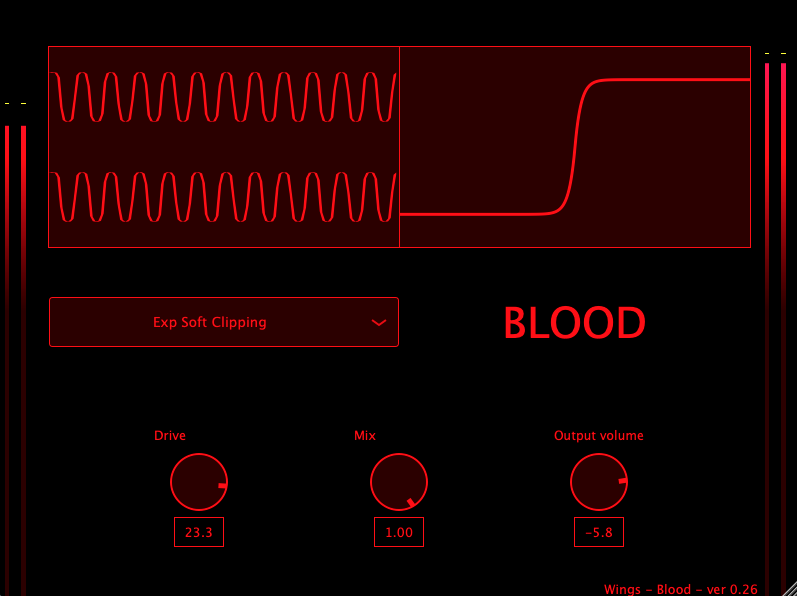
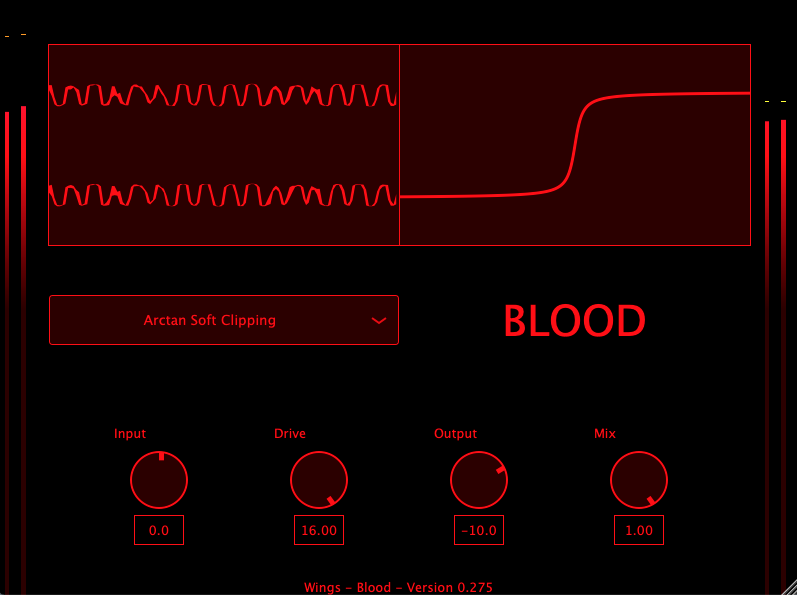
Upgrade to 0.275
1. add input knob, change the location of mix and output knob. Now the output knob is before the mix knob so that it doesn't affect mix knob when mix = 0.
2. fit JUCE v5.7.4
3. seperate distortion module into Distortion.cpp and Distortion.h
4. Change "mode" into interger

Former-commit-id: 422c23a339f6065666e80291f425d574cca9fbd6

diff --git a/Source/PluginEditor.cpp b/Source/PluginEditor.cpp
@@ -10,7 +10,7 @@
 
 #include "PluginProcessor.h"
 #include "PluginEditor.h"
-#define VERSION "0.271"
+#define VERSION "0.275"
 //==============================================================================
 BloodAudioProcessorEditor::BloodAudioProcessorEditor(BloodAudioProcessor &p)
     : AudioProcessorEditor(&p), processor(p)
@@ -74,6 +74,17 @@ BloodAudioProcessorEditor::BloodAudioProcessorEditor(BloodAudioProcessor &p)
     driveLabel.setColour(Label::textColourId, mainColour);
     driveLabel.attachToComponent(&driveKnob, false);
 
+    //output knob
+    addAndMakeVisible(outputKnob);
+    outputKnob.setSliderStyle(Slider::RotaryHorizontalVerticalDrag);
+    outputKnob.setTextBoxStyle(Slider::TextBoxBelow, false, 50, 30);
+    outputKnob.setLookAndFeel(&otherLookAndFeel);
+
+    addAndMakeVisible(outputLabel);
+    outputLabel.setText("Output", dontSendNotification);
+    outputLabel.setColour(Label::textColourId, mainColour);
+    outputLabel.attachToComponent(&outputKnob, false);
+
     //mix knob
     addAndMakeVisible(mixKnob);
     mixKnob.setSliderStyle(Slider::RotaryHorizontalVerticalDrag);
@@ -84,22 +95,12 @@ BloodAudioProcessorEditor::BloodAudioProcessorEditor(BloodAudioProcessor &p)
     mixLabel.setText("Mix", dontSendNotification);
     mixLabel.setColour(Label::textColourId, mainColour);
     mixLabel.attachToComponent(&mixKnob, false);
-
-    //volume knob
-    addAndMakeVisible(gainKnob);
-    gainKnob.setSliderStyle(Slider::RotaryHorizontalVerticalDrag);
-    gainKnob.setTextBoxStyle(Slider::TextBoxBelow, false, 50, 30);
-    gainKnob.setLookAndFeel(&otherLookAndFeel);
-
-    addAndMakeVisible(gainLabel);
-    gainLabel.setText("Output", dontSendNotification);
-    gainLabel.setColour(Label::textColourId, mainColour);
-    gainLabel.attachToComponent(&gainKnob, false);
-
+    
+    //Attachment
     driveAttachment = std::make_unique<AudioProcessorValueTreeState::SliderAttachment>(processor.treeState, "drive", driveKnob); // (deleted drive)
     inputAttachment = std::make_unique<AudioProcessorValueTreeState::SliderAttachment>(processor.treeState, "inputGain", inputKnob);
+    outputAttachment = std::make_unique<AudioProcessorValueTreeState::SliderAttachment>(processor.treeState, "outputGain", outputKnob);
     mixAttachment = std::make_unique<AudioProcessorValueTreeState::SliderAttachment>(processor.treeState, "mix", mixKnob);
-    gainAttachment = std::make_unique<AudioProcessorValueTreeState::SliderAttachment>(processor.treeState, "outputGain", gainKnob);
 
     //visualiser
     //addAndMakeVisible(visualiser);
@@ -163,14 +164,14 @@ void BloodAudioProcessorEditor::paint(Graphics &g)
 
     float functionValue;
     float mixValue;
-    float mode = *processor.treeState.getRawParameterValue("mode");
+    int mode = *processor.treeState.getRawParameterValue("mode");
     float inputGain = *processor.treeState.getRawParameterValue("inputGain");
-    float mix = *processor.treeState.getRawParameterValue("mix");
     float drive = *processor.treeState.getRawParameterValue("drive"); // (deleted drive)
-
+    float mix = *processor.treeState.getRawParameterValue("mix");
+    
     distortionProcessor.controls.mode = mode;
-    distortionProcessor.controls.mix = mix;
     distortionProcessor.controls.drive = drive;
+    distortionProcessor.controls.mix = mix;
 
     auto frame = getLocalBounds(); // adjust here, if you want to paint in a special location
     frame.setBounds(getWidth() / 2, 50 - 1, getWidth() / 2 - 50 + 2, (getHeight() / 3 + 2));
@@ -235,8 +236,8 @@ void BloodAudioProcessorEditor::resized()
     // subcomponents in your editor..
     inputKnob.setBounds((getWidth() / 5) * 1 - 50, getHeight() - 150, 100, 100);
     driveKnob.setBounds((getWidth() / 5) * 2 - 50, getHeight() - 150, 100, 100); // (deleted drive)
-    mixKnob.setBounds((getWidth() / 5) * 3 - 50, getHeight() - 150, 100, 100);
-    gainKnob.setBounds((getWidth() / 5) * 4 - 50, getHeight() - 150, 100, 100);
+    outputKnob.setBounds((getWidth() / 5) * 3 - 50, getHeight() - 150, 100, 100);
+    mixKnob.setBounds((getWidth() / 5) * 4 - 50, getHeight() - 150, 100, 100);
 
     // visualiser
     processor.visualiser.setBounds(50, 50, getWidth() / 2 - 50, (getHeight() / 3));

diff --git a/Source/PluginProcessor.cpp b/Source/PluginProcessor.cpp
@@ -23,12 +23,12 @@ BloodAudioProcessor::BloodAudioProcessor()
 #endif
                          ),treeState(*this, nullptr, "PARAMETERS",
                 {
-
+                    std::make_unique<AudioParameterFloat>("mode", "Mode", NormalisableRange<float>(1, 6, 1), 1),
                     std::make_unique<AudioParameterFloat>("inputGain", "InputGain", NormalisableRange<float>(-36.0f, 36.0f, 0.1f), 0.0f),
                     std::make_unique<AudioParameterFloat>("drive", "Drive", NormalisableRange<float>(1.0f, 16.0f, 0.01f), 1.0f), // (deleted drive)
-                    std::make_unique<AudioParameterFloat>("mix", "Mix", NormalisableRange<float>(0.0f, 1.0f, 0.01f), 1.0f),
                     std::make_unique<AudioParameterFloat>("outputGain", "OutputGain", NormalisableRange<float>(-48.0f, 6.0f, 0.1f), 0.0f),
-                    std::make_unique<AudioParameterFloat>("mode", "Mode", NormalisableRange<float>(1.0f, 6.0f), 1.0f),
+                    std::make_unique<AudioParameterFloat>("mix", "Mix", NormalisableRange<float>(0.0f, 1.0f, 0.01f), 1.0f),
+                    
                 })
 #endif
 {
@@ -178,17 +178,17 @@ void BloodAudioProcessor::processBlock(AudioBuffer<float> &buffer, MidiBuffer &m
     auto driveValue = treeState.getRawParameterValue("drive");
     float drive = *driveValue;
 
-    auto mixValue = treeState.getRawParameterValue("mix");
-    float mix = *mixValue;
-
-    distortionProcessor.controls.mode = mode;
-    distortionProcessor.controls.mix = mix;
-    distortionProcessor.controls.drive = drive;
-
     auto outputGainValue = treeState.getRawParameterValue("outputGain");
     float currentGainOutput = *outputGainValue;
     currentGainOutput = Decibels::decibelsToGain(currentGainOutput);
 
+    auto mixValue = treeState.getRawParameterValue("mix");
+    float mix = *mixValue;
+    
+    distortionProcessor.controls.mode = mode;
+    distortionProcessor.controls.drive = drive;
+    distortionProcessor.controls.output = currentGainOutput;
+    distortionProcessor.controls.mix = mix;
     // ff input meter
     inputMeterSource.measureBlock(buffer);
 
@@ -216,15 +216,15 @@ void BloodAudioProcessor::processBlock(AudioBuffer<float> &buffer, MidiBuffer &m
     }
 
     // output volume fix
-    if (currentGainOutput == previousGainOutput)
-    {
-        buffer.applyGain(currentGainOutput);
-    }
-    else
-    {
-        buffer.applyGainRamp(0, buffer.getNumSamples(), previousGainOutput, currentGainOutput);
-        previousGainOutput = currentGainOutput;
-    }
+//    if (currentGainOutput == previousGainOutput)
+//    {
+//        buffer.applyGain(currentGainOutput);
+//    }
+//    else
+//    {
+//        buffer.applyGainRamp(0, buffer.getNumSamples(), previousGainOutput, currentGainOutput);
+//        previousGainOutput = currentGainOutput;
+//    }
 
     // ff output meter
     outputMeterSource.measureBlock(buffer);

diff --git a/Source/PluginEditor.h b/Source/PluginEditor.h
@@ -95,16 +95,18 @@ private:
     // create knobs and their labels
     Slider driveKnob; // (deleted drive)
     Slider inputKnob;
+    Slider outputKnob;
     Slider mixKnob;
-    Slider gainKnob;
+    
     Label driveLabel; // (deleted drive)
     Label inputLabel;
+    Label outputLabel;
     Label mixLabel;
-    Label gainLabel;
+    
     std::unique_ptr<AudioProcessorValueTreeState::SliderAttachment> driveAttachment;
     std::unique_ptr<AudioProcessorValueTreeState::SliderAttachment> inputAttachment;
+    std::unique_ptr<AudioProcessorValueTreeState::SliderAttachment> outputAttachment;
     std::unique_ptr<AudioProcessorValueTreeState::SliderAttachment> mixAttachment;
-    std::unique_ptr<AudioProcessorValueTreeState::SliderAttachment> gainAttachment;
 
     // mode menu
     ComboBox distortionMode;

diff --git a/Source/Distortion.cpp b/Source/Distortion.cpp
@@ -2,17 +2,18 @@
 //  Distortion.cpp
 //  Blood
 //
-//  Created by 俞轶风 on 2/11/20.
+//  Created by 羽翼深蓝Wings on 2/11/20.
 //
 
 #include "Distortion.h"
 
 Distortion::Distortion()
 {
+    controls.thresh = 1.f;
     controls.mode = 0;
     controls.drive = 1.f;
+    controls.output = 1.f;
     controls.mix = 0.f;
-    controls.thresh = 1.f;
 }
 
 Distortion::~Distortion() {}
@@ -43,7 +44,7 @@ float Distortion::distortionProcess(float sample)
         input = squareWaveClipping(input);
         break;
     }
-
+    input = input * controls.output;
     return (1.f - controls.mix) * cleanOut + controls.mix * input;
 }
 

diff --git a/Source/Distortion.h b/Source/Distortion.h
@@ -2,7 +2,7 @@
 //  Distortion.h
 //  Blood
 //
-//  Created by 俞轶风 on 2/11/20.
+//  Created by 羽翼深蓝Wings on 2/11/20.
 //
 
 #ifndef Distortion_h
@@ -20,6 +20,8 @@ public:
         float drive;
         // Threshold, [0., 1], the amplitude at which to start fold-back distortion
         float thresh;
+        // output
+        float output;
         // Mix, [0., 1.] ratio between a dry and wet signal
         float mix;
     } controls;

diff --git a/README.md b/README.md
@@ -28,3 +28,8 @@ Hope you like it!
 2. Fix some display problems. Now you can see the change of graph when you modify drive knob and mix knob.
 3. Make the windows resizable.
 
+2020-2-12 (version 0.275)
+1. add input knob, change the location of mix and output knob. Now the output knob is before the mix knob so that it doesn't affect mix knob when mix = 0.
+2. fit JUCE v5.7.4
+3. seperate distortion module into Distortion.cpp and Distortion.h
+4. Change "mode" into interger
